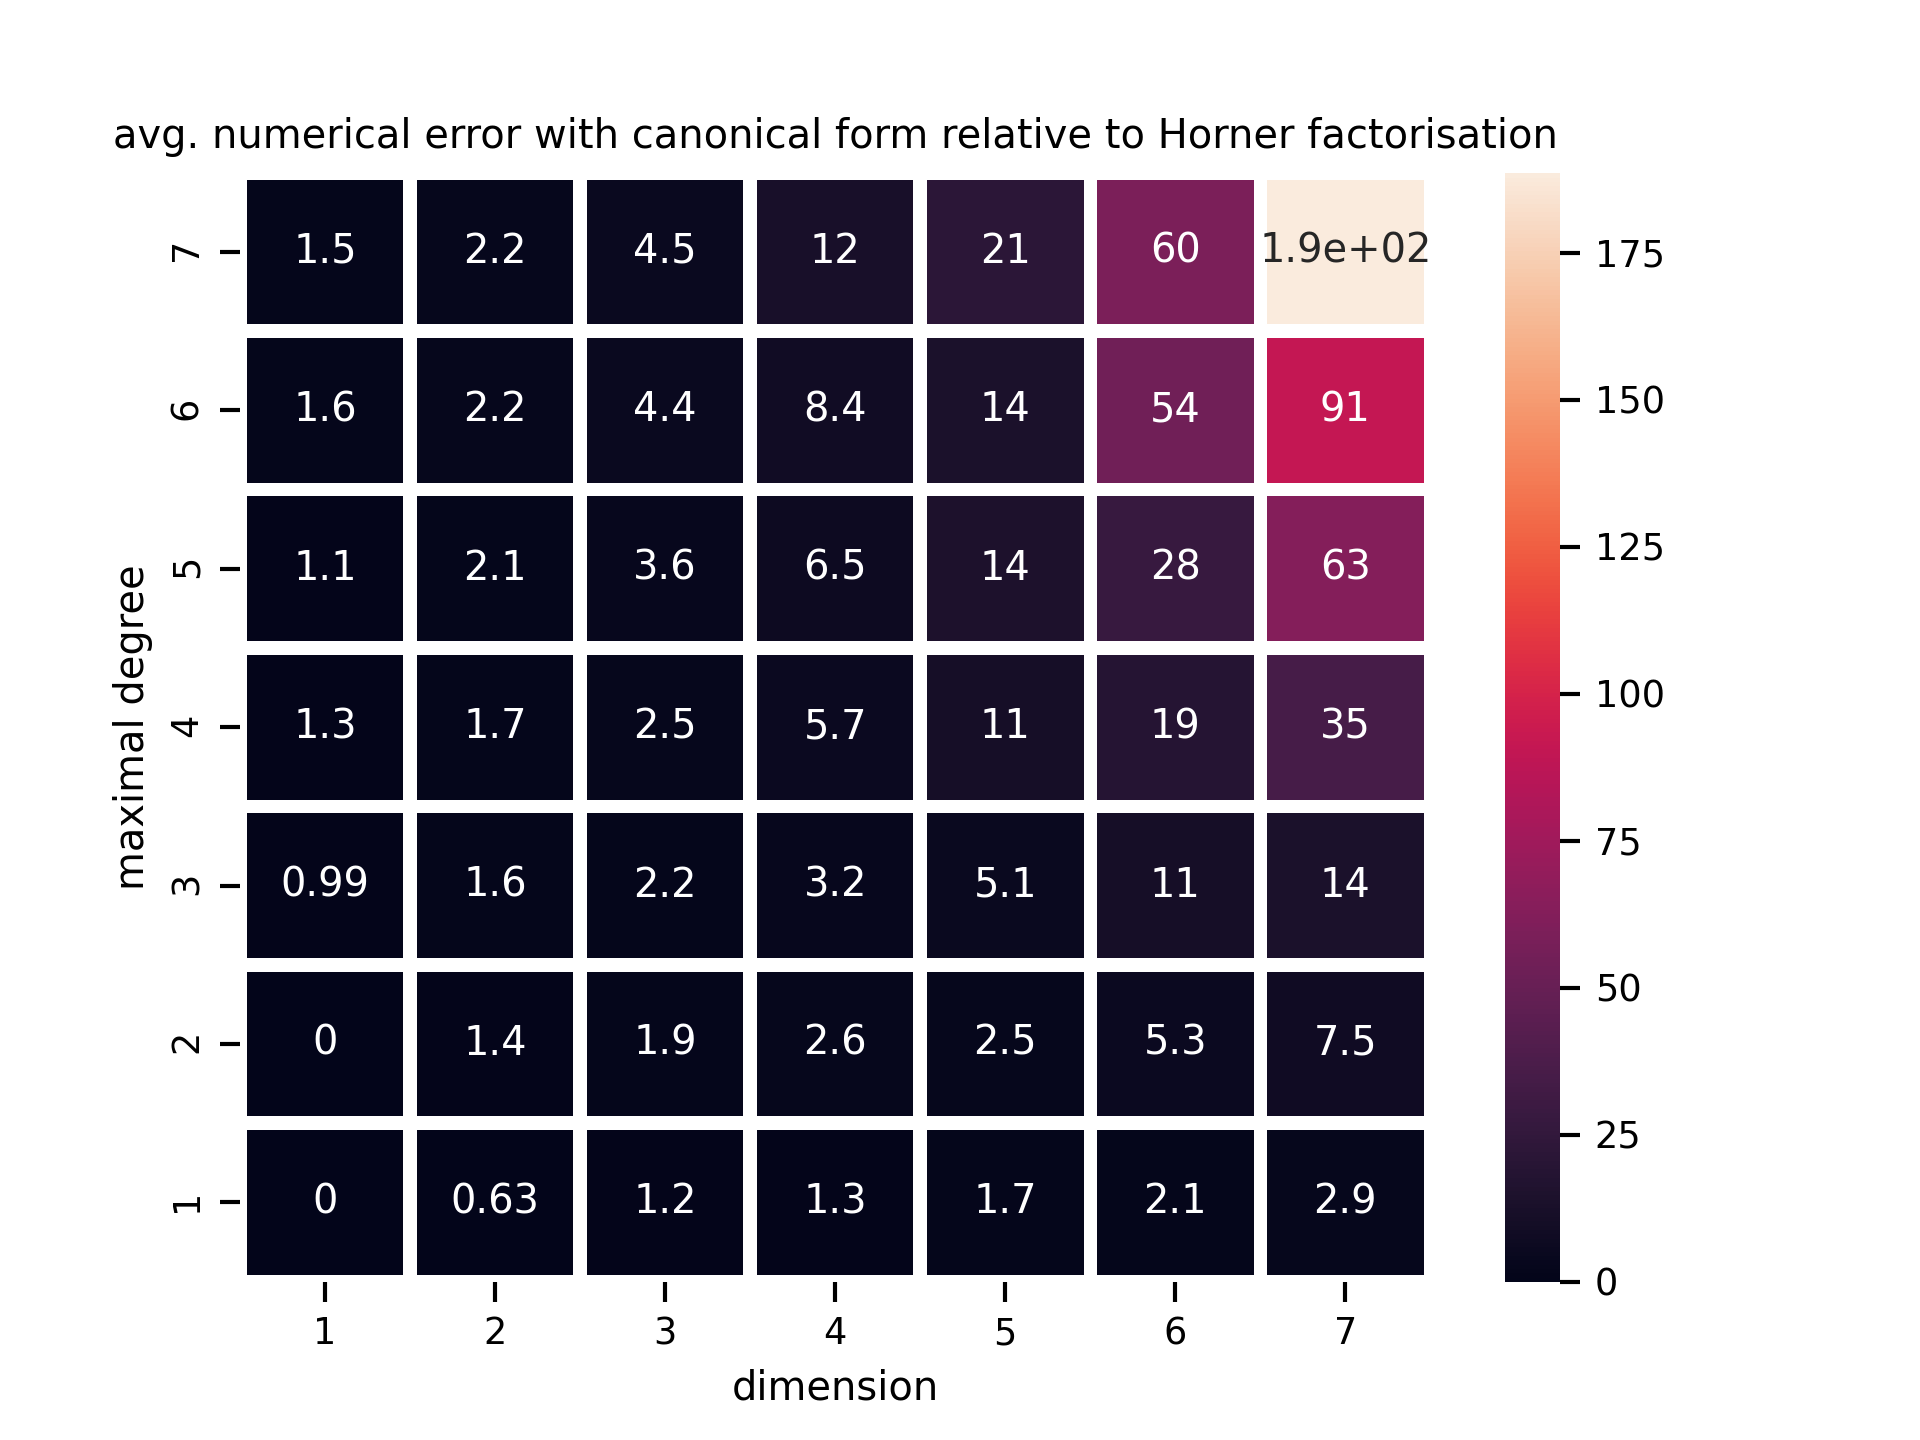
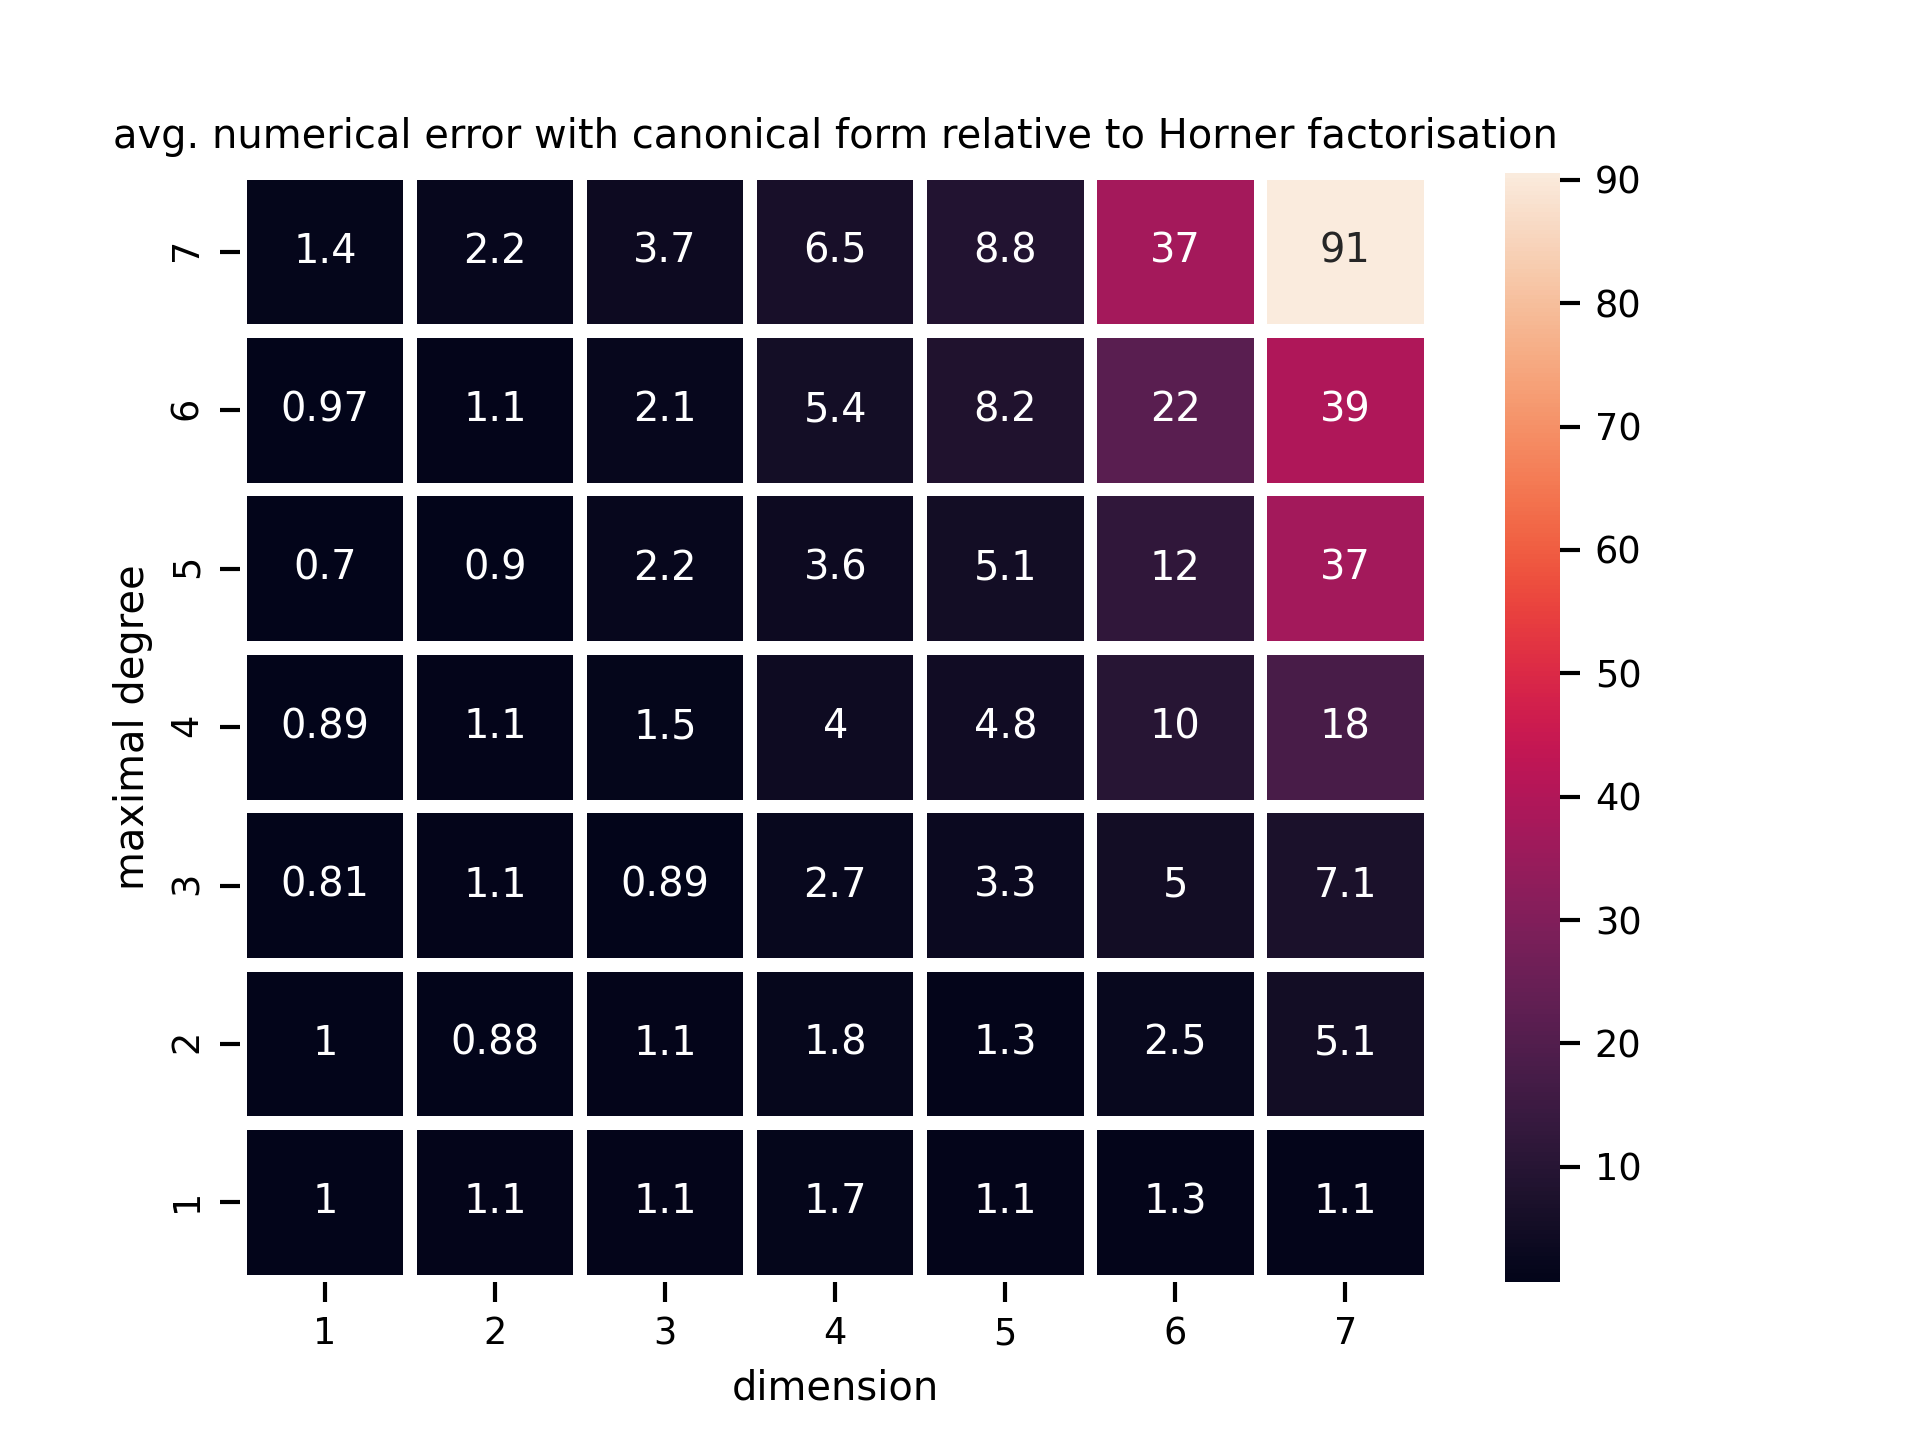
display relative errors
as discussed in #17
update the plots and description in the paper

diff --git a/tests/plotting.py b/tests/plotting.py
@@ -306,12 +306,18 @@ def plot_speed_results():
 
 def extract_numerical_error_horner(result):
     poly, poly_horner, p_x_expected, p_x, p_x_horner = result
-    return abs(p_x_horner - p_x_expected)
+    abs_error = abs(p_x_horner - p_x_expected)
+    rel_error = abs_error / abs(p_x_expected)
+    # return abs_error
+    return rel_error
 
 
 def extract_numerical_error_naive(result):
     poly, poly_horner, p_x_expected, p_x, p_x_horner = result
-    return abs(p_x_horner - p_x)
+    abs_error = abs(p_x - p_x_expected)
+    rel_error = abs_error / abs(p_x_expected)
+    # return abs_error
+    return rel_error
 
 
 def has_nonzero_err_horner(result):
@@ -505,7 +511,7 @@ def plot_num_error_growth_comparison(results):
 
     attr_name_representation = 'representation'
     attr_name_num_coeff = 'number of coefficients'
-    attr_name_numerical_err = 'average absolute numerical error'
+    attr_name_numerical_err = 'average relative numerical error'
     repr_name_horner = 'Horner factorisation'
     repr_name_naive = 'canonical form'
 

diff --git a/paper/paper.md b/paper/paper.md
@@ -74,14 +74,14 @@ Due to its simplicity and universality this kind of representation is used for d
 It should be noted that this most trivial representation is computationally very expensive to evaluate.
 In this particular case, for example, a polynomial evaluation based on arrays would require a total of 27 operations (exponentiations, multiplications and additions).
 
-The following code snippet shows how to use `multivar_horner` for computing a Horner factorisation of $p$: 
+The following code snippet shows how to use `multivar_horner` for computing a Horner factorisation of $p$:
 
 
 ```python
 from multivar_horner import HornerMultivarPolynomial
 coefficients = [5.0, 1.0, 2.0, 3.0]
 exponents = [[0, 0, 0], [3, 1, 0], [2, 0, 1], [1, 1, 1]]
-p = HornerMultivarPolynomial(coefficients, exponents, rectify_input=True, 
+p = HornerMultivarPolynomial(coefficients, exponents, rectify_input=True,
 	compute_representation=True)
 ````
 
@@ -90,7 +90,7 @@ The human readable representation of the polynomial can be accessed with:
 
 ```python
 print(p.representation)
-# >> [#ops=10] p(x) = x_1^1 (x_1^1 (x_1^1 (1.0 x_2^1) + 2.0 x_3^1) 
+# >> [#ops=10] p(x) = x_1^1 (x_1^1 (x_1^1 (1.0 x_2^1) + 2.0 x_3^1)
 #                        + 3.0 x_2^1 x_3^1) + 5.0
 ````
 
@@ -146,7 +146,7 @@ Five polynomials were sampled randomly for each maximal degree up to 7 and dimen
 In order to compute the numerical error, each polynomial is evaluated at a point sampled uniformly from $[-1; 1]^m$ with the different methods.
 The polynomial evaluation algorithms use 64-bit floating point numbers, whereas the ground truth is computed with 128-bit accuracy in order to avoid numerical errors in the ground truth value.
 To obtain more representative results, the numerical error is averaged over 100 runs with uniformly-random coefficients each in the range $[-1; 1]$.
-All errors are displayed as (averaged) absolute values.
+All errors are displayed relative to the ground truth.
 
 ![Numerical error of evaluating randomly generated polynomials in canonical form relative to the Horner factorisation.\label{fig:num_err_heatmap}](../docs/_static/num_err_heatmap.png)
 
